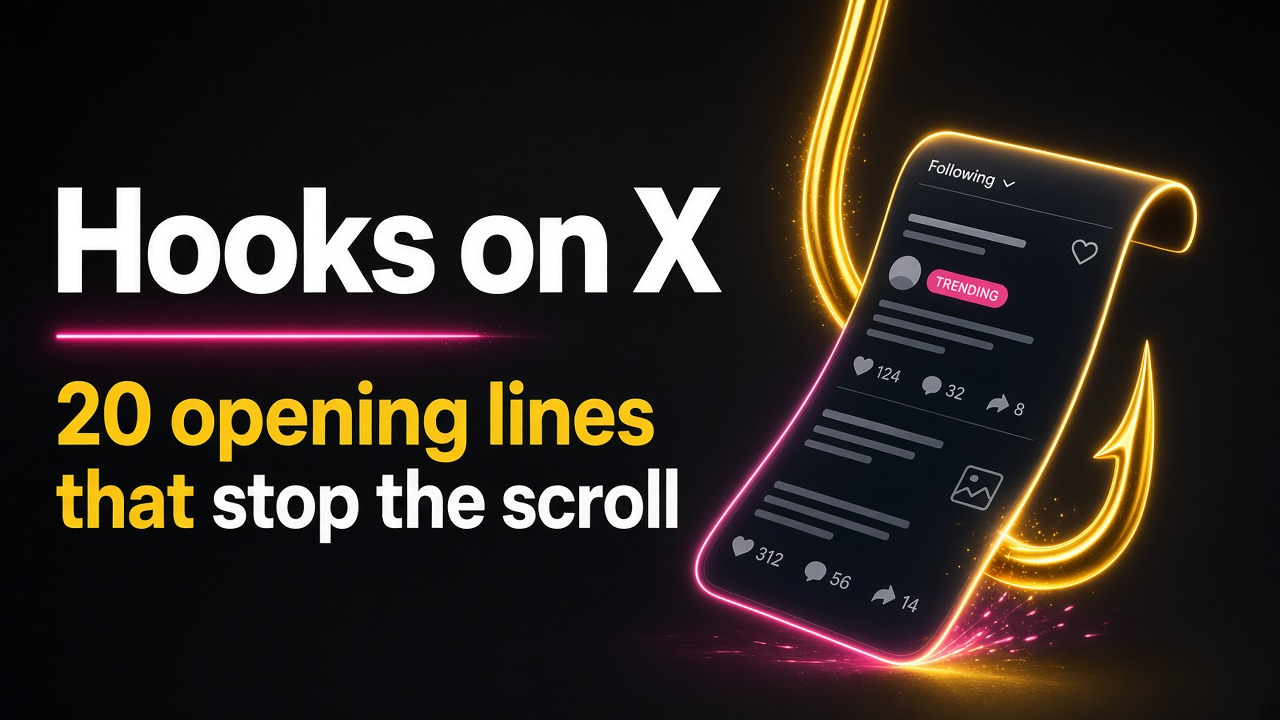
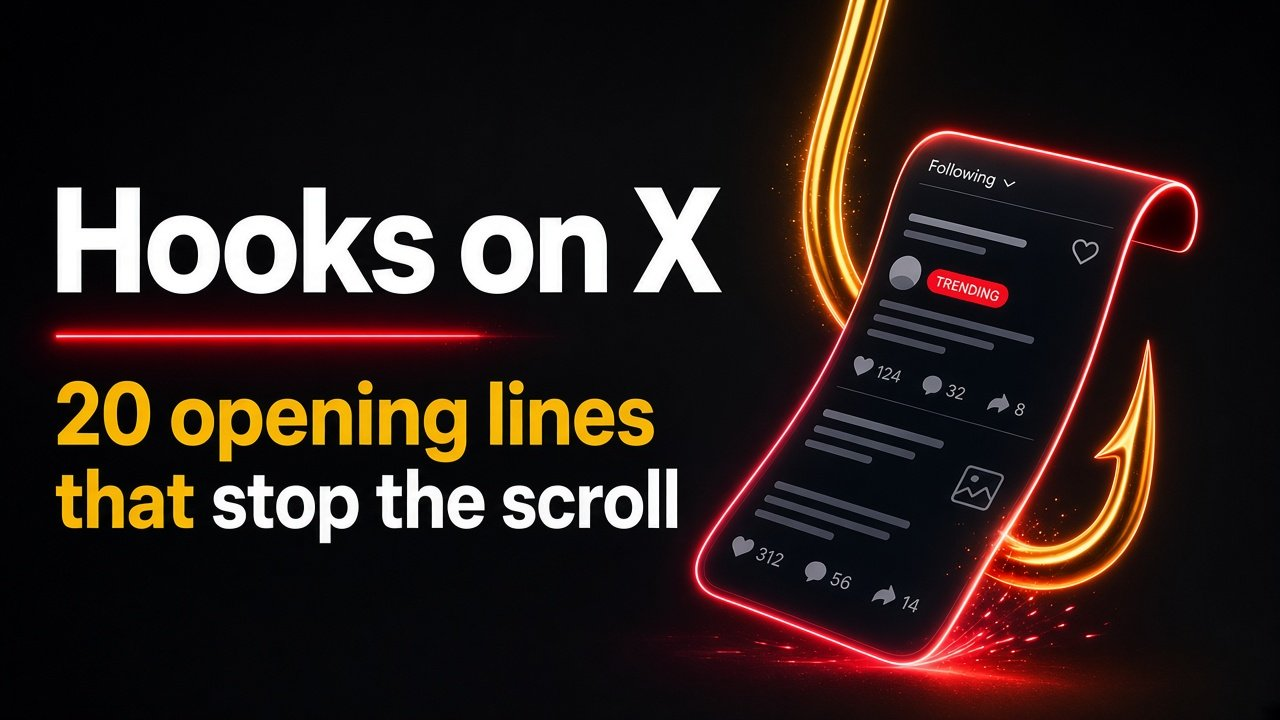
Hooks: new og image (red accents), v=4

diff --git a/hooks/index.html b/hooks/index.html
@@ -16,7 +16,7 @@
 <meta property="og:url" content="https://willemvroom.com/hooks/">
 <meta property="og:title" content="Hooks on X — 20 opening lines that stop the scroll">
 <meta property="og:description" content="20 opening lines that stop the scroll: templates, examples and tips for writing hooks on X.">
-<meta property="og:image" content="https://willemvroom.com/work/hooks-og.jpg?v=3">
+<meta property="og:image" content="https://willemvroom.com/work/hooks-og.jpg?v=4">
 <meta name="twitter:card" content="summary_large_image">
 <script>(function(){try{var t=localStorage.getItem("wv-theme");if(t==="dark"||(!t&&matchMedia("(prefers-color-scheme: dark)").matches)){document.documentElement.classList.add("dark");var m=document.querySelector('meta[name="theme-color"]');if(m)m.setAttribute("content","#0b0b0b");}}catch(e){}})();</script>
 <style>.ai-glow{color:#ff2a3a;text-shadow:0 0 12px rgba(255,42,58,.55)}.pbtn{display:inline-flex;align-items:center;min-height:44px;padding:.5rem 1rem;border:1px solid currentColor;border-radius:999px;font-weight:600;text-decoration:none!important;margin:.5rem .6rem 0 0;background:none;color:inherit;font-size:.9rem;cursor:pointer}.pbtn.bold{background:#ff2a3a;border-color:#ff2a3a;color:#fff}.pbtn:focus-visible,.g a:focus-visible,.g select:focus-visible,.g textarea:focus-visible{outline:3px solid #ff2a3a;outline-offset:2px}.g select,.g textarea{width:100%;font:inherit;font-size:max(16px,1rem);padding:.7rem;border:1px solid rgba(127,127,127,.5);border-radius:10px;background:transparent;color:inherit}.g select option{color:#000}.g label{display:block;font-weight:600;margin-top:1rem}</style>
